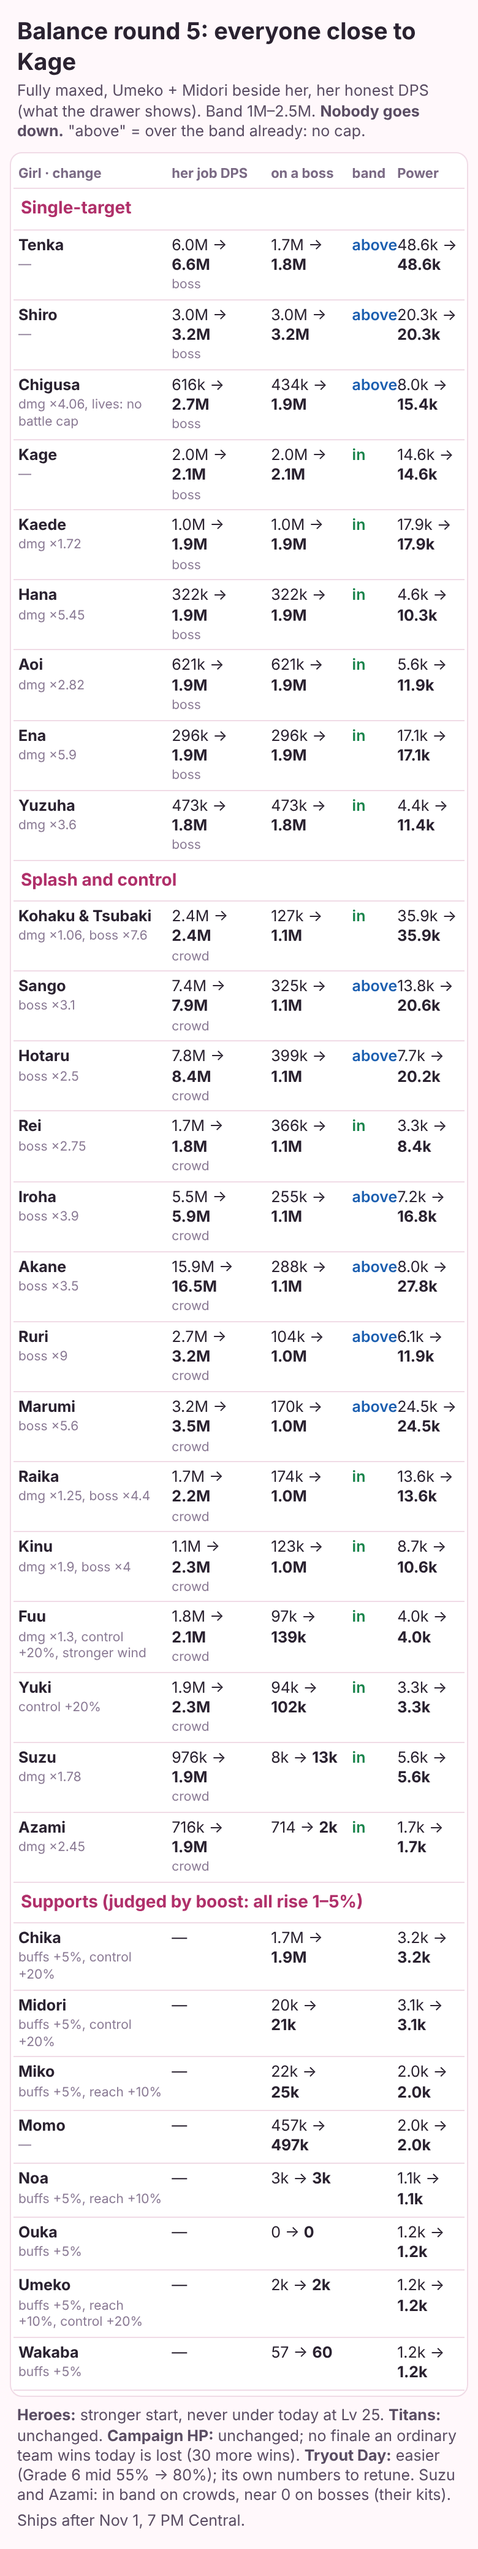
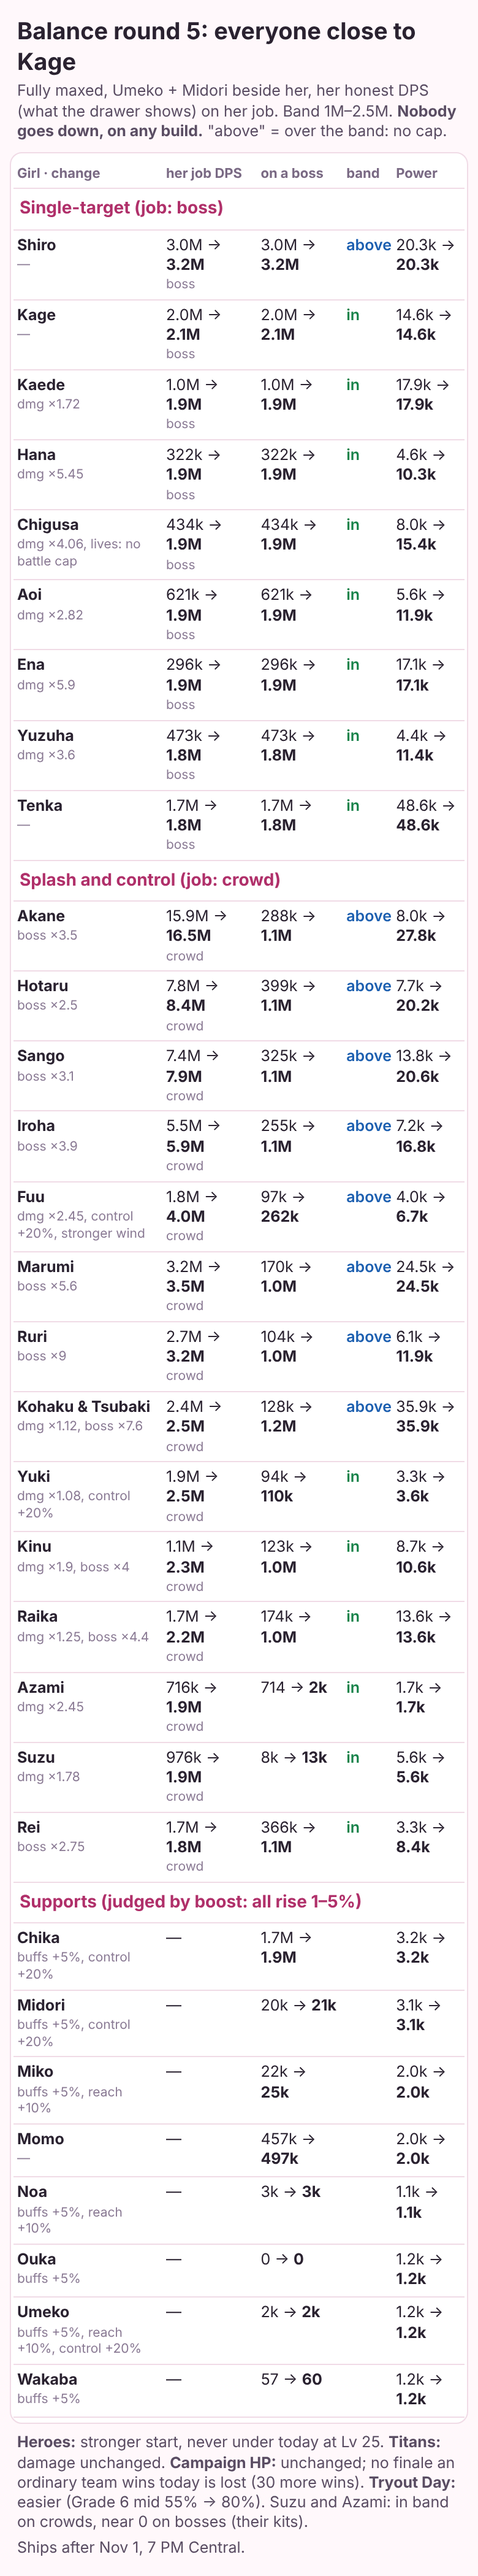
Balance round 5: final measurement table and owner board on the merged v0.1.59 base (review fixes, the ship gate, the duo's constant beam)
Claude-Session: https://claude.ai/code/session_011tKQCtX3knxj4Pq1y473w9

Changed region(s): [[0.0308, 0.0, 0.9538, 0.9933], [0.3385, 0.8691, 0.4, 0.9001]]

diff --git a/docs/BALANCE.md b/docs/BALANCE.md
@@ -4,9 +4,15 @@
 
 The owner's direction (Oct 27–28): "no cap, everyone close to Kage". Every fully maxed striker's honest DPS (the battle
 drawer's live number since v0.1.59) in a 1M–2.5M band, Kage in the middle; supports judged by their boost to allies;
-nobody nerfed. Built on the v0.1.59 base (banners, the duo, Tryout Day, UR Resonance, honest DPS). Kept from rounds 1–4:
-the per-girl rows (`src/data/balance.js`, re-sized here), the heroes' level curve, the titan rule, Fuu's wind and
-Chigusa's lives. Dropped: Options A/B, the kit-fair panel (the honest readout shipped instead), the chapter HP pass.
+nobody nerfed. Built on the v0.1.59 release candidate (`main` ccf147ad: banners, the duo with Kohaku's constant beam,
+Tryout Day, UR Resonance, honest DPS). Kept from rounds 1–4: the per-girl rows (`src/data/balance.js`, re-sized here),
+the heroes' level curve, the titan rule, Fuu's wind and Chigusa's lives. Dropped: Options A/B, the kit-fair panel (the
+honest readout shipped instead), the chapter HP pass.
+
+**Ship gate.** Merge only after the Halloween event closes (Nov 1, 7 PM Central): the Gourdlight Golem gates
+(`tests/integration/event-balance.test.js` EB-1–EB-3) read the girls without the round (`powerOff`) because players fight
+the Golem on today's numbers until then; with the round a mid free team wins its Hard and a level-60 P1 team its
+Nightmare. After the event, the `powerOff` wrappers there can go.
 
 **The three findings on round 4, fixed.** (1) Every number below is the honest readout's own measure: damage the sim
 credits her per second (`damageDealt`, `src/ui/battle/dpsView.js`), not a panel formula. (2) Power never drops
@@ -22,33 +28,33 @@ owner's "about 1.7M" frame). Her **ruler** is her job: a boss for single-target 
 
 | Girl | job | boss before → after | late crowd before → after | her ruler after | band 1M–2.5M |
 |---|---|---:|---:|---:|---|
-| Tenka | boss | 1.67M → 1.80M | 6.05M → 6.55M | 6.55M | above (no cap) |
 | Shiro | boss | 2.99M → 3.24M | 1.88M → 2.03M | 3.24M | above (no cap) |
-| Chigusa | boss | 434k → 1.91M | 616k → 2.72M | 2.72M | above (no cap) |
 | Kage | boss | 1.97M → 2.14M | 1.82M → 1.98M | 2.14M | in |
 | Kaede | boss | 1.02M → 1.92M | 656k → 1.22M | 1.92M | in |
 | Hana | boss | 322k → 1.91M | 231k → 1.37M | 1.91M | in |
+| Chigusa | boss | 434k → 1.91M | 616k → 2.72M | 1.91M | in |
 | Aoi | boss | 621k → 1.89M | 570k → 1.74M | 1.89M | in |
 | Ena | boss | 296k → 1.88M | 291k → 1.87M | 1.88M | in |
 | Yuzuha | boss | 473k → 1.85M | 449k → 1.78M | 1.85M | in |
+| Tenka | boss | 1.67M → 1.80M | 6.05M → 6.55M | 1.80M | in |
 | Akane | crowd | 288k → 1.07M | 15.94M → 16.47M | 16.47M | above (no cap) |
 | Hotaru | crowd | 399k → 1.09M | 7.79M → 8.43M | 8.43M | above (no cap) |
 | Sango | crowd | 325k → 1.11M | 7.38M → 7.87M | 7.87M | above (no cap) |
 | Iroha | crowd | 255k → 1.08M | 5.45M → 5.88M | 5.88M | above (no cap) |
+| Fuu | crowd | 97k → 262k | 1.80M → 4.04M | 4.04M | above (no cap) |
 | Marumi | crowd | 170k → 1.02M | 3.22M → 3.48M | 3.48M | above (no cap) |
 | Ruri | crowd | 104k → 1.02M | 2.69M → 3.16M | 3.16M | above (no cap) |
-| Kohaku & Tsubaki | crowd | 127k → 1.12M | 2.38M → 2.40M | 2.40M | in |
+| Kohaku & Tsubaki | crowd | 128k → 1.16M | 2.37M → 2.54M | 2.54M | above (no cap) |
+| Yuki | crowd | 94k → 110k | 1.92M → 2.45M | 2.45M | in |
 | Kinu | crowd | 123k → 1.01M | 1.11M → 2.29M | 2.29M | in |
-| Yuki | crowd | 94k → 102k | 1.92M → 2.27M | 2.27M | in |
 | Raika | crowd | 174k → 1.01M | 1.67M → 2.20M | 2.20M | in |
-| Fuu | crowd | 97k → 139k | 1.80M → 2.14M | 2.14M | in |
 | Azami | crowd | 714 → 2k | 716k → 1.91M | 1.91M | in |
 | Suzu | crowd | 8k → 13k | 976k → 1.87M | 1.87M | in |
 | Rei | crowd | 366k → 1.08M | 1.67M → 1.82M | 1.82M | in |
 | Chika | support | 1.72M → 1.87M | 625k → 682k | – | judged by boost |
-| Midori | support | 20k → 21k | 1.07M → 1.08M | – | judged by boost |
 | Momo | support | 457k → 497k | 644k → 698k | – | judged by boost |
 | Miko | support | 22k → 25k | 352k → 385k | – | judged by boost |
+| Midori | support | 20k → 21k | 1.07M → 1.08M | – | judged by boost |
 | Noa | support | 3k → 3k | 54k → 59k | – | judged by boost |
 | Umeko | support | 2k → 2k | 37k → 38k | – | judged by boost |
 | Wakaba | support | 57 → 60 | 29 → 30 | – | judged by boost |
@@ -56,11 +62,16 @@ owner's "about 1.7M" frame). Her **ruler** is her job: a boss for single-target 
 
 - Single-target strikers rise to 86–90% of Kage on a boss (`dmg` rows ×1.72–×5.9). Splash girls already above the band
   on a crowd keep it (no cap) and get a boss-only factor (`boss`, bosses and minibosses) to about 1M on a boss, half of
-  Kage's: Marumi ×5.6, Ruri ×9 and the duo ×7.6 are the largest because their kits barely touch a boss.
+  Kage's: Marumi ×5.6, Ruri ×9 and the duo ×7.6 are the largest because their kits barely touch a boss (the duo's boss
+  row reaches her shells, not Kohaku's beam).
 - Suzu's traps and Azami's strips sit in the band on a crowd but stay near 0 on a boss: their kits do not touch bosses
   (a kit question for the owner, not a number).
-- Kage, Shiro and Tenka have no damage row; the supports' +5% lifts every girl beside them about 9%. Fuu's stronger wind
-  pushes walkers out of her reach, so she gets ×1.3 damage to keep her crowd DPS (it fell 2.03M → 1.60M without it).
+- Kage, Shiro and Tenka have no damage row; the supports' +5% lifts every girl beside them about 9%.
+- **No build falls, not only the best one** (every girl, all three tier-5 builds, boss and crowd, 3 seeds; Fuu, Yuki and
+  the duo also alone and with supports over 5–7 seeds). Three rows exist only for that: Fuu ×2.45 (her stronger wind
+  pushes walkers out of her reach: at ×1.3 her Returning Gale build alone lost 46%, so her best build now reads ~4M on
+  a crowd), Yuki ×1.08 (her 20% longer freezes cost her up to 6% on a build), the duo ×1.12 (the raised Umeko aura
+  shifts her shell and beam timing on a stream).
 
 **Supports** (Kage 5-0-2 on a held boss beside one support at her best build, ÷ Kage alone):
 
@@ -76,7 +87,7 @@ owner's "about 1.7M" frame). Her **ruler** is her job: a boss for single-target 
 | Momo | p0t5 | ×1.00 → ×1.00 |
 
 **Power** (fully maxed profile; `unitPower`): a raised girl's Power rises until her Power ÷ Kage's matches her measured
-DPS ÷ Kage's (√ of the boss and crowd ratios); a girl already at or above that keeps hers. None drops.
+DPS ÷ Kage's (√ of the boss and crowd ratios); a girl already at or above that keeps hers. None drops on any account.
 
 | Girl | Power before | Power after |
 |---|---:|---:|
@@ -85,7 +96,7 @@ DPS ÷ Kage's (√ of the boss and crowd ratios); a girl already at or above tha
 | Nami | 8,262 | 8,262 |
 | Aoi | 5,569 | 11,896 ▲ |
 | Rei | 3,256 | 8,368 ▲ |
-| Yuki | 3,256 | 3,256 |
+| Yuki | 3,256 | 3,604 ▲ |
 | Momo | 1,960 | 1,960 |
 | Akane | 7,973 | 27,766 ▲ |
 | Sango | 13,758 | 20,638 ▲ |
@@ -103,7 +114,7 @@ DPS ÷ Kage's (√ of the boss and crowd ratios); a girl already at or above tha
 | Kanna | 8,486 | 8,486 |
 | Yoriko | 13,981 | 13,981 |
 | Seiran | 14,055 | 14,055 |
-| Fuu | 4,039 | 4,039 |
+| Fuu | 4,039 | 6,683 ▲ |
 | Hana | 4,625 | 10,323 ▲ |
 | Ruri | 6,146 | 11,948 ▲ |
 | Noa | 1,133 | 1,133 |
@@ -124,9 +135,11 @@ DPS ÷ Kage's (√ of the boss and crowd ratios); a girl already at or above tha
 Lv 25, a nerf of the top. Every paid level raises her hit by more than 1% and her boss DPS at four account profiles
 (`tests/sim/heroPower.test.js`). The held heroes Kogane and Norika keep their data.
 
-**Titans.** No row and no hero curve in a titan battle (`TITAN_POWER` false). `tools/balance/r5Titans.mjs` (a maxed team on
-every titan, 240 s): damage and sim hash identical before and after (foundry 146,002, regent 609,851, daimyo 909,332,
-wyrm 653,485).
+**Titans.** No row and no hero curve in a titan battle (`TITAN_POWER` false). `tools/balance/r5Titans.mjs` (a maxed team
+without Fuu or Chigusa on every titan, 240 s): damage and sim hash identical before and after (foundry 146,002, regent
+609,851, daimyo 909,332, wyrm 653,485). Fuu's wind and Chigusa's lives are kit rules in every battle, titans too: the
+independent review measured a team with both at regent 609,825 → 609,971 (+0.02%), the other titans identical. The
+titans screen says titan battles use every girl's damage without the boost.
 
 **Finales** (`tools/balance/r5Finales.mjs`, the autoPlan bot; common team = the free roster with Akane, Raika, Miko and
 Kinu in; mid = the census level, late = Lv 60 ★3 with two Epic +6 pieces, max = fully maxed; wins of 2 seeds). Normal,
@@ -145,20 +158,26 @@ Hard and Nightmare × free and common × three accounts × ten finales: **0 wins
 | 7-5 | 0→0 · 0→0 · 2→2 | 0→0 · 0→2 · 2→2 | 0→0 · 0→2 · 2→2 |
 | 8-5 | 0→0 · 0→0 · 2→2 | 0→0 · 0→0 · 2→2 | 0→0 · 0→2 · 2→2 |
 
-**Tryout Day** (`tools/tryoutBot.mjs --sweep`, 20 runs each, solo Half Day): the rows apply in Tryout, so it gets easier.
+**Tryout Day** (`tools/tryoutBot.mjs --sweep`, 20 runs each, solo Half Day): the rows apply in Tryout, so it gets easier
+(a decision for the coordinator: Tryout's own Grade table could take the round into account).
 
 | Grade | new | mid | maxed |
 |---|---|---|---|
 | 1 | 55% → 95% | 100% → 100% | 100% → 100% |
-| 6 | 15% → 15% | 55% → 80% | 65% → 85% |
+| 6 | 15% → 15% | 55% → 80% | 65% → 80% |
 | 12 | 0% → 5% | 5% → 20% | 15% → 30% |
 
 The ceiling gate (`tools/bench.mjs --hit --ceiling --maxed geared`) is unchanged: 41 rows, max ×1.119 (Aoi's talent),
 the same three rows over ×1 as before the round (Aoi T_aoi 1.119, Hana 1.074, Shiro T_shiro 1.041), none above ×1.15.
 
-**Sim id** `a1076e6d148d` (base `5987025a6141`), pinned as PENDING_BUMP in `tests/art/itemArtRuntime.test.js`;
-COOP_PROTOCOL is not bumped here (the coordinator assigns it at ship). Goldens re-pinned with no win becoming a loss;
-mechanics scenarios (save/restore, co-op casts) run power-neutral (`powerOff`, or the row divided back out in co-op).
+**Sim id** `cd0c560b9327` (base `35748b1b58db`), pinned as PENDING_BUMP in `tests/art/itemArtRuntime.test.js`; COOP_PROTOCOL is
+not bumped here (the coordinator assigns it at ship). Goldens re-pinned with no win becoming a loss; mechanics
+scenarios (save/restore, co-op casts) run power-neutral (`powerOff`, or the row divided back out in co-op).
+
+**Review.** An independent adversarial review (FIX-THEN-SHIP, no blocker) found Fuu's two lower builds, the titan claim,
+the Golem ship gate and four nits (the footnote naming only damage and boss rows, Chigusa judged on the wrong ruler, the
+wiki's Fuu line, the duo's beam and boss row); all fixed above. Not fixed: Umeko's tier text keeps her own words (+15%)
+while her running total includes the +5% buff, as battle does.
 
 ## Marumi rework (2026-10-21, `feature/marumi-rework`)
 
